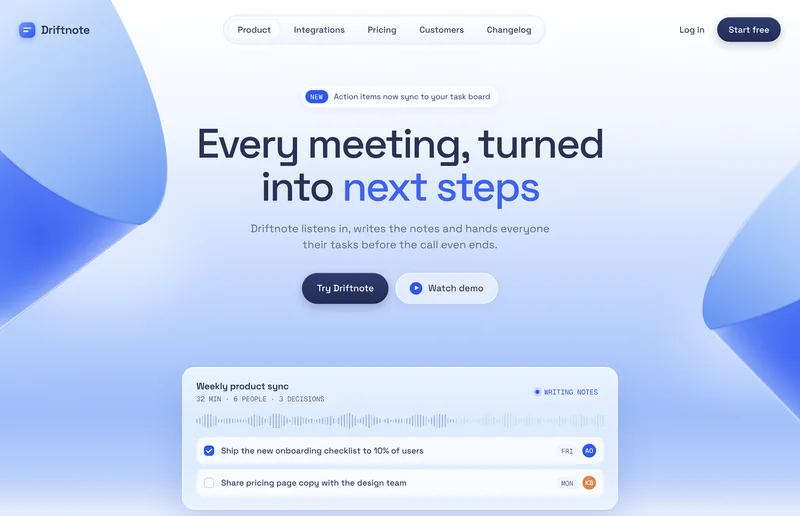
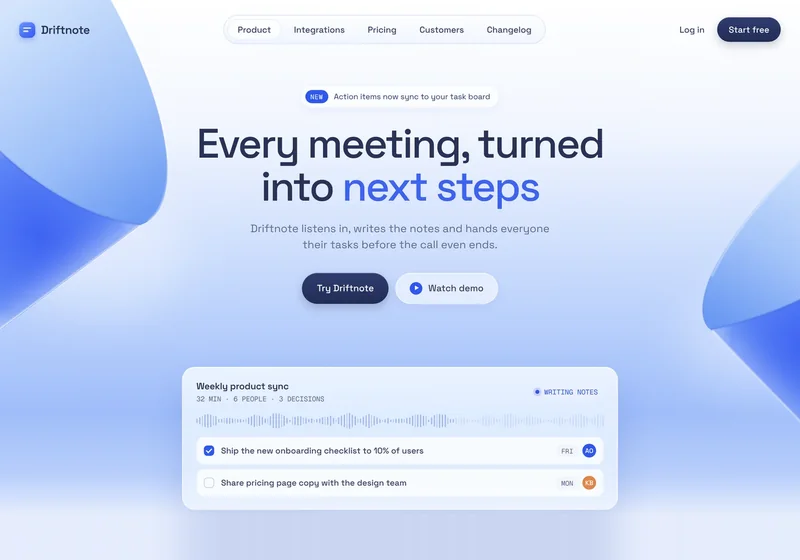
New desktop frame design added

diff --git a/index.html b/index.html
@@ -45,8 +45,8 @@
   }
   </script>
 
-  <link rel="stylesheet" href="css/hero.css?v=speed-500">
-  <script src="js/portrait.js?v=stack-mobile-1" defer></script>
+  <link rel="stylesheet" href="css/hero.css?v=frames-640">
+  <script src="js/portrait.js?v=speed-130" defer></script>
   <link rel="stylesheet" href="css/header.css?v=links-6">
   <link rel="stylesheet" href="css/theme.css?v=links-7">
   <link rel="stylesheet" href="css/cursor.css?v=2">
@@ -359,7 +359,11 @@
             <div class="screen-frame web-frame"><img class="web-shot" src="assets/images/screens/web-driftnote-hero-800.webp"
                 srcset="assets/images/screens/web-driftnote-hero-800.webp 800w, assets/images/screens/web-driftnote-hero.webp 1400w"
                 sizes="(max-width: 767px) 86vw, 800px" alt="Driftnote landing page: Every meeting, turned into next steps."
-                width="1400" height="903" decoding="async"></div>
+                width="1400" height="980" decoding="async"></div>
+            <div class="screen-frame web-frame"><img class="web-shot" src="assets/images/screens/web-perks-hero-800.webp"
+                srcset="assets/images/screens/web-perks-hero-800.webp 800w, assets/images/screens/web-perks-hero.webp 1400w"
+                sizes="(max-width: 767px) 86vw, 800px" alt="Perks that grow with your team: equity, perks and payroll for African startup teams."
+                width="1400" height="980" decoding="async"></div>
             <div class="screen-frame web-frame"><img class="web-shot"
                 src="assets/images/screens/web-digitalajo-hero-800.webp"
                 srcset="assets/images/screens/web-digitalajo-hero-800.webp 800w, assets/images/screens/web-digitalajo-hero.webp 1400w"
@@ -369,29 +373,11 @@
                 srcset="assets/images/screens/web-digitalajo-phone-260.webp 260w, assets/images/screens/web-digitalajo-phone.webp 400w"
                 sizes="(max-width: 767px) 66px, 128px" alt="" width="400" height="870" decoding="async"></div>
             <div class="screen-frame web-frame"><img class="web-shot"
-                src="assets/images/screens/web-apex-status-800.webp"
-                srcset="assets/images/screens/web-apex-status-800.webp 800w, assets/images/screens/web-apex-status.webp 1400w"
-                sizes="(max-width: 767px) 86vw, 800px"
-                alt="Apex AR tasklist grouped by status: Completed, In Progress and Not Started." width="1400"
-                height="1050" decoding="async"></div>
-            <div class="screen-frame web-frame"><img class="web-shot"
                 src="assets/images/screens/web-digitalajo-steps-800.webp"
                 srcset="assets/images/screens/web-digitalajo-steps-800.webp 800w, assets/images/screens/web-digitalajo-steps.webp 1400w"
                 sizes="(max-width: 767px) 86vw, 800px"
                 alt="DigitalAjo How it works section: create your circle, invite your people, pay in and get paid out."
                 width="1400" height="1050" decoding="async"></div>
-            <div class="screen-frame web-frame"><img class="web-shot"
-                src="assets/images/screens/web-apex-subtasks-800.webp"
-                srcset="assets/images/screens/web-apex-subtasks-800.webp 800w, assets/images/screens/web-apex-subtasks.webp 1400w"
-                sizes="(max-width: 767px) 86vw, 800px"
-                alt="Apex AR tasklist with subtasks expanded under each application." width="1400" height="1050"
-                decoding="async"></div>
-            <div class="screen-frame web-frame"><img class="web-shot"
-                src="assets/images/screens/web-digitalajo-download-800.webp"
-                srcset="assets/images/screens/web-digitalajo-download-800.webp 800w, assets/images/screens/web-digitalajo-download.webp 1400w"
-                sizes="(max-width: 767px) 86vw, 800px"
-                alt="DigitalAjo download section: Take full control of your group savings." width="1400" height="1050"
-                decoding="async"></div>
           </div>
         </div>
       </div>

diff --git a/css/hero.css b/css/hero.css
@@ -1742,13 +1742,13 @@ h1 span {
 /* Laptop row: each website sits flat on a light panel inside the same grey frame
    and 20px corners as the phones. The page runs off the bottom edge, like a browser. */
 .desktop .screens-set { gap: 18px; padding-right: 18px; }
-.desktop .screen-frame { position: relative; width: 560px; height: auto; aspect-ratio: 16 / 10; flex: none; padding: 0; border: 6px solid #cfd0d4; border-radius: 20px; background: #f4f4f5; box-shadow: none; overflow: hidden; }
+.desktop .screen-frame { position: relative; width: 640px; height: 438px; aspect-ratio: auto; flex: none; padding: 0; border: 6px solid #cfd0d4; border-radius: 20px; background: #f4f4f5; box-shadow: none; overflow: hidden; }
 .desktop .screen-frame .web-shot { position: absolute; top: 20px; left: 20px; width: calc(100% - 40px); height: auto; object-fit: initial; border-radius: 4px; box-shadow: 0 0 0 1px rgba(0,0,0,.05), 0 10px 30px rgba(20,20,30,.08); }
-.desktop .screen-frame .web-phone { position: absolute; right: 22px; bottom: -52px; width: 96px; height: auto; border: 4px solid #17171a; border-radius: 24px; box-shadow: 0 14px 30px rgba(20,20,30,.18); }
+.desktop .screen-frame .web-phone { position: absolute; right: 28px; bottom: -65px; width: 120px; height: auto; border: 4px solid #17171a; border-radius: 24px; box-shadow: 0 14px 30px rgba(20,20,30,.18); }
 .screens-track + .screens-track { margin-top: 28px; }
 [data-theme="dark"] .desktop .screen-frame { border-color: #3a3a41; background: #26262b; }
 @media (max-width: 767px) {
-  .desktop .screen-frame { width: 340px; border-width: 5px; border-radius: 20px; }
+  .desktop .screen-frame { width: 340px; height: auto; aspect-ratio: 16 / 10; border-width: 5px; border-radius: 20px; }
   .desktop .screen-frame .web-shot { top: 12px; left: 12px; width: calc(100% - 24px); border-radius: 3px; }
   .desktop .screen-frame .web-phone { width: 66px; right: 14px; bottom: -36px; border-width: 3px; border-radius: 13px; }
 }
@@ -1878,13 +1878,4 @@ h1 span {
   .hero-actions a { animation: reveal-actions 2.15s .25s both; }
   .action-reveal:focus-within .hero-actions a { animation: none; opacity: 1; visibility: visible; }
   .action-reveal:focus-within .selection-buttons { display: none; }
-}
-
-/* Both rows move at the same speed (about 500px a second). Each row's loop time
-   is its length divided by that speed, so they're set separately. */
-.screens.ready .screens-track.desktop { animation-duration: 8.1s; }
-.screens.ready .screens-track.mobile { animation-duration: 3.8s; }
-@media (max-width: 767px) {
-  .screens.ready .screens-track.desktop { animation-duration: 4.9s; }
-  .screens.ready .screens-track.mobile { animation-duration: 3.3s; }
 }

diff --git a/js/portrait.js b/js/portrait.js
@@ -137,8 +137,8 @@ function fillGallery() {
     }
   });
 }
-// One steady speed on every screen size: 75 pixels a second for both rows.
-const GALLERY_SPEED = 75;
+// One steady speed on every screen size: 130 pixels a second for both rows.
+const GALLERY_SPEED = 130;
 function setGallerySpeed() {
   galleryTracks.forEach(track => {
     const loop = track.scrollWidth / 2;
